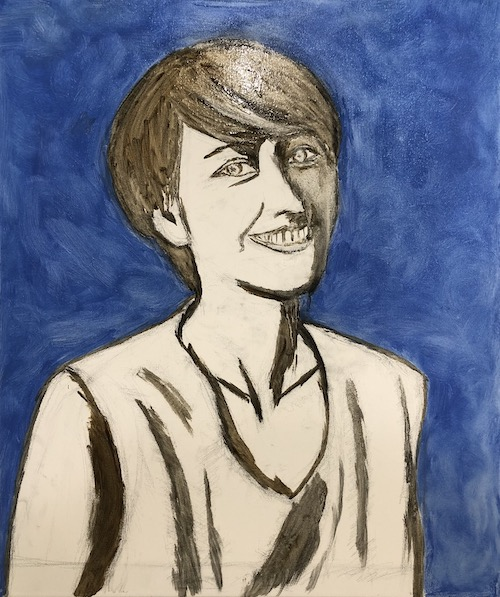
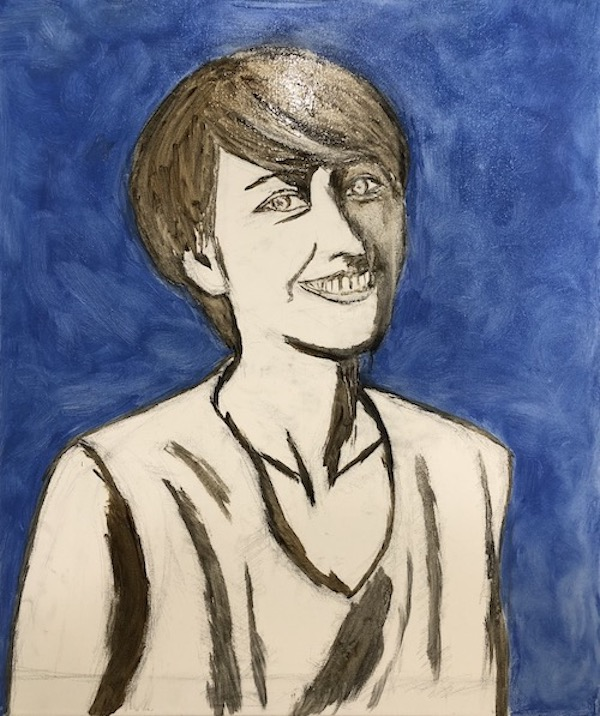
Site updated: 2022-07-03 20:45:01

diff --git a/2022/04/29/zh-剑道油画-Kendo-Oil-Painting/zh/index.html b/2022/04/29/zh-剑道油画-Kendo-Oil-Painting/zh/index.html
@@ -24,11 +24,11 @@
 
 
 
-其次明暗修改：
+加背景颜色基调：
 
 
 
-进一步色彩细节修改：
+明暗和色彩细节修改：
 
 
 
@@ -49,11 +49,11 @@
 
 
 
-其次明暗修改：
+加背景颜色基调：
 
 
 
-进一步色彩细节修改：
+明暗和色彩细节修改：
 
 
 
@@ -67,7 +67,7 @@
 <meta property="og:image" content="http://yoursite.com/image/Oils/kendo/kendo_3.jpeg">
 <meta property="og:image" content="http://yoursite.com/image/Oils/kendo/kendo_4.jpeg">
 <meta property="og:image" content="http://yoursite.com/image/Oils/kendo/kendo_5.jpeg">
-<meta property="og:updated_time" content="2022-06-25T13:22:58.852Z">
+<meta property="og:updated_time" content="2022-07-03T11:40:34.924Z">
 <meta name="twitter:card" content="summary">
 <meta name="twitter:title" content="剑道油画-Kendo Oil Painting | H.J.T. Github">
 <meta name="twitter:description" content="首先是整体结构绘图：
@@ -78,11 +78,11 @@
 
 
 
-其次明暗修改：
+加背景颜色基调：
 
 
 
-进一步色彩细节修改：
+明暗和色彩细节修改：
 
 
 
@@ -318,11 +318,11 @@ classes that you can use:
 <center><img src="/image/Oils/kendo/kendo_2.jpeg" alt="kendo"></center>
 
 <hr>
-<p>其次明暗修改：</p>
+<p>加背景颜色基调：</p>
 <center><img src="/image/Oils/kendo/kendo_3.jpeg" alt="kendo"></center>
 
 <hr>
-<p>进一步色彩细节修改：</p>
+<p>明暗和色彩细节修改：</p>
 <center><img src="/image/Oils/kendo/kendo_4.jpeg" alt="kendo"></center>
 
 <hr>

diff --git a/Archive/index.html b/Archive/index.html
@@ -251,11 +251,11 @@ classes that you can use:
             
         
             
-                <span><a href="/tags/Kendo/" title="Kendo">Kendo<sup>5</sup></a></span>
+                <span><a href="/tags/Judo/" title="Judo">Judo<sup>5</sup></a></span>
             
         
             
-                <span><a href="/tags/Judo/" title="Judo">Judo<sup>5</sup></a></span>
+                <span><a href="/tags/Kendo/" title="Kendo">Kendo<sup>5</sup></a></span>
             
         
             
@@ -279,11 +279,11 @@ classes that you can use:
             
         
             
-                <span><a href="/tags/Blockchain/" title="Blockchain">Blockchain<sup>2</sup></a></span>
+                <span><a href="/tags/PM/" title="PM">PM<sup>2</sup></a></span>
             
         
             
-                <span><a href="/tags/PM/" title="PM">PM<sup>2</sup></a></span>
+                <span><a href="/tags/Blockchain/" title="Blockchain">Blockchain<sup>2</sup></a></span>
             
         
     </div>

diff --git a/tags/Music/index.html b/tags/Music/index.html
@@ -222,7 +222,7 @@ classes that you can use:
     <li>
 
       <h2 class="post-list__post-title post-title">
-        <a href="/2017/01/01/zh-The-Chords-of-Guitar-和弦指法图/zh/" title="link to The Chords of Guitar-和弦指法图">The Chords of Guitar-和弦指法图</a>
+        <a href="/2017/01/01/zh-Twelvetone-十二平均律/zh/" title="link to Twelvetone-十二平均律.md">Twelvetone-十二平均律.md</a>
       </h2>
 
       <div class="post-list__meta">
@@ -240,7 +240,7 @@ classes that you can use:
     <li>
 
       <h2 class="post-list__post-title post-title">
-        <a href="/2017/01/01/zh-Twelvetone-十二平均律/zh/" title="link to Twelvetone-十二平均律.md">Twelvetone-十二平均律.md</a>
+        <a href="/2017/01/01/zh-The-Chords-of-Guitar-和弦指法图/zh/" title="link to The Chords of Guitar-和弦指法图">The Chords of Guitar-和弦指法图</a>
       </h2>
 
       <div class="post-list__meta">
